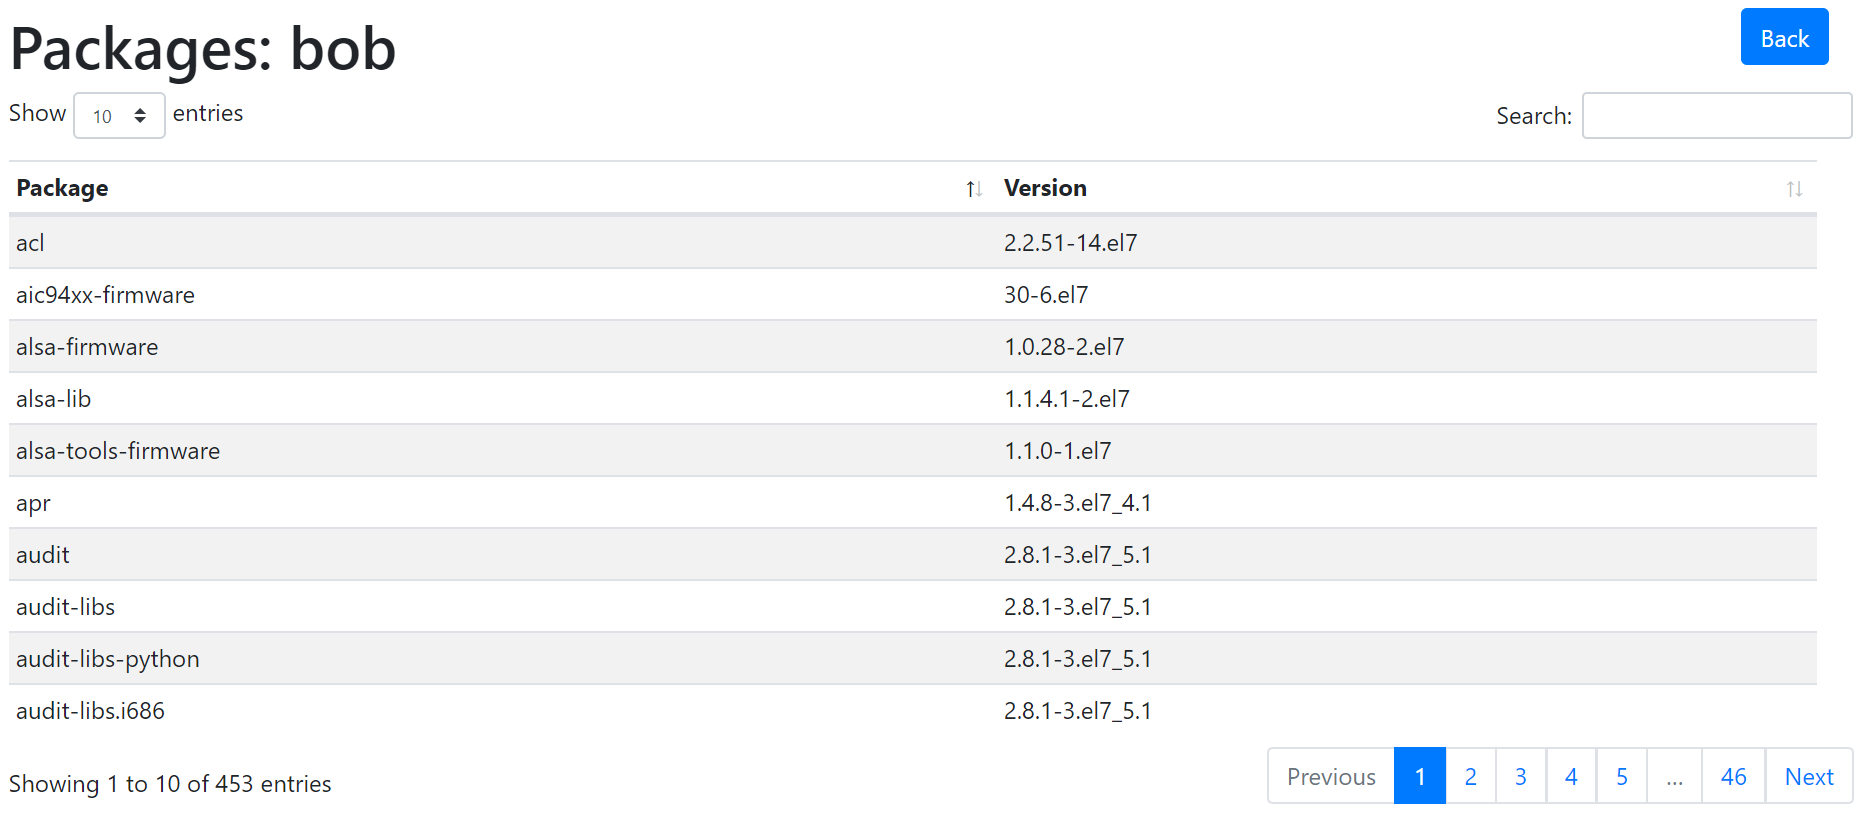
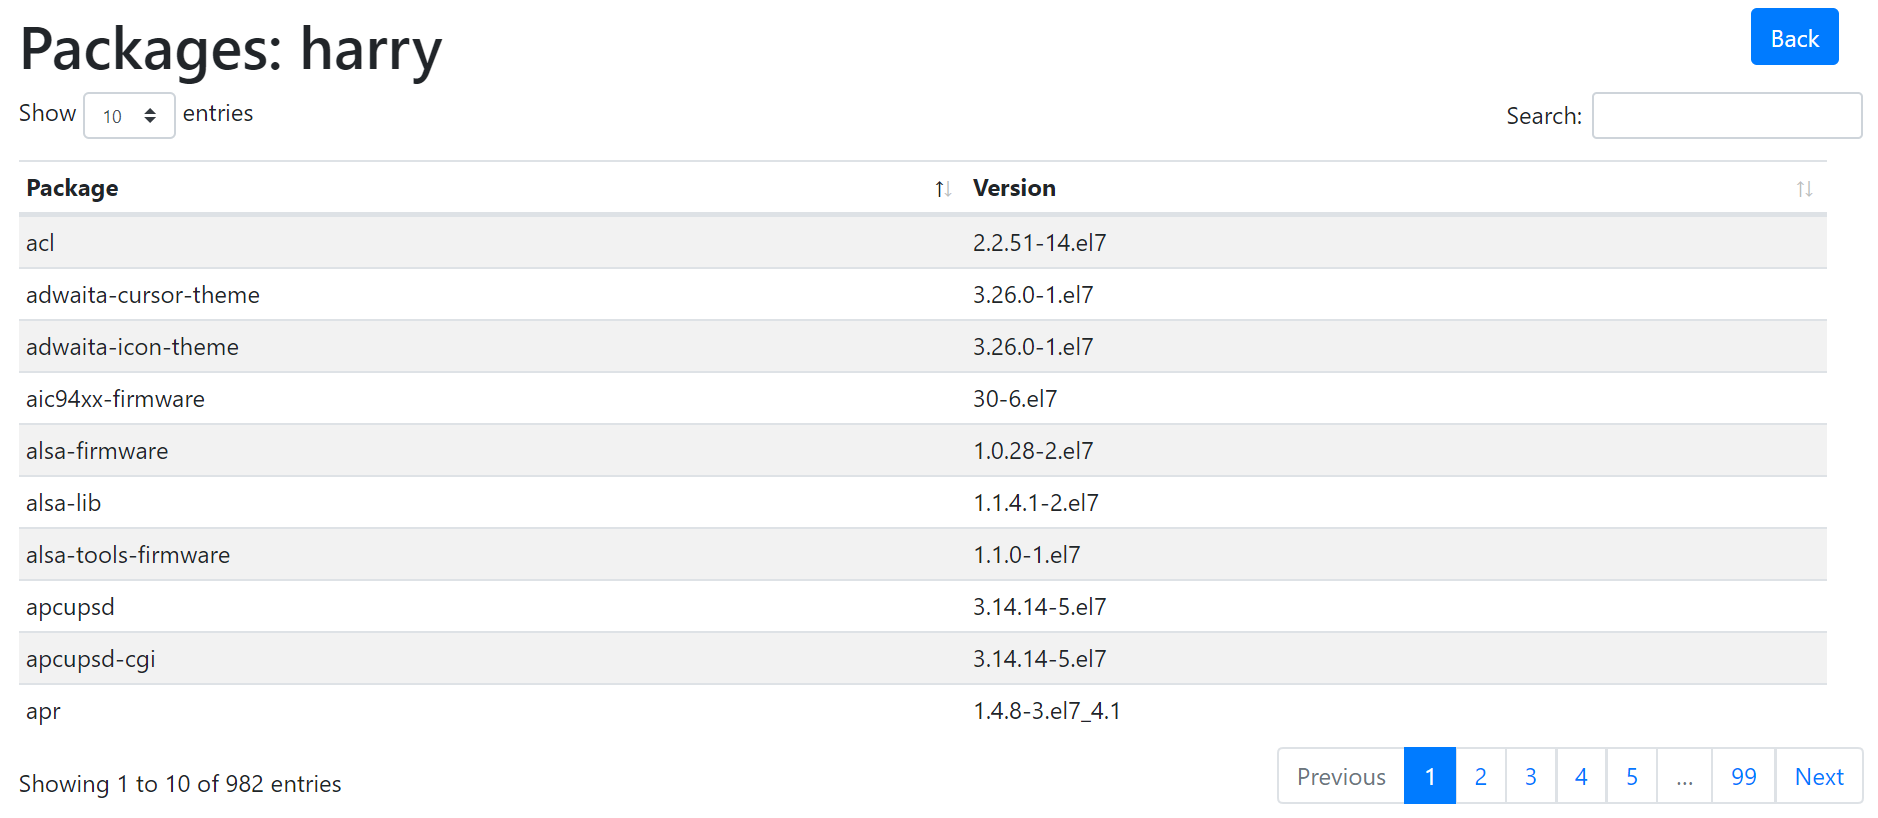
Updated screen shots

diff --git a/README.md b/README.md
@@ -18,6 +18,9 @@ Example inventory:
 Example packages list for a minion:
 ![Packages](packages.png)
 
+Example package diff for two minions:
+![Package Diff](package-diff.png)
+
 ## Requirements
 
 * A web server that supports PHP (e.g. Apache)
